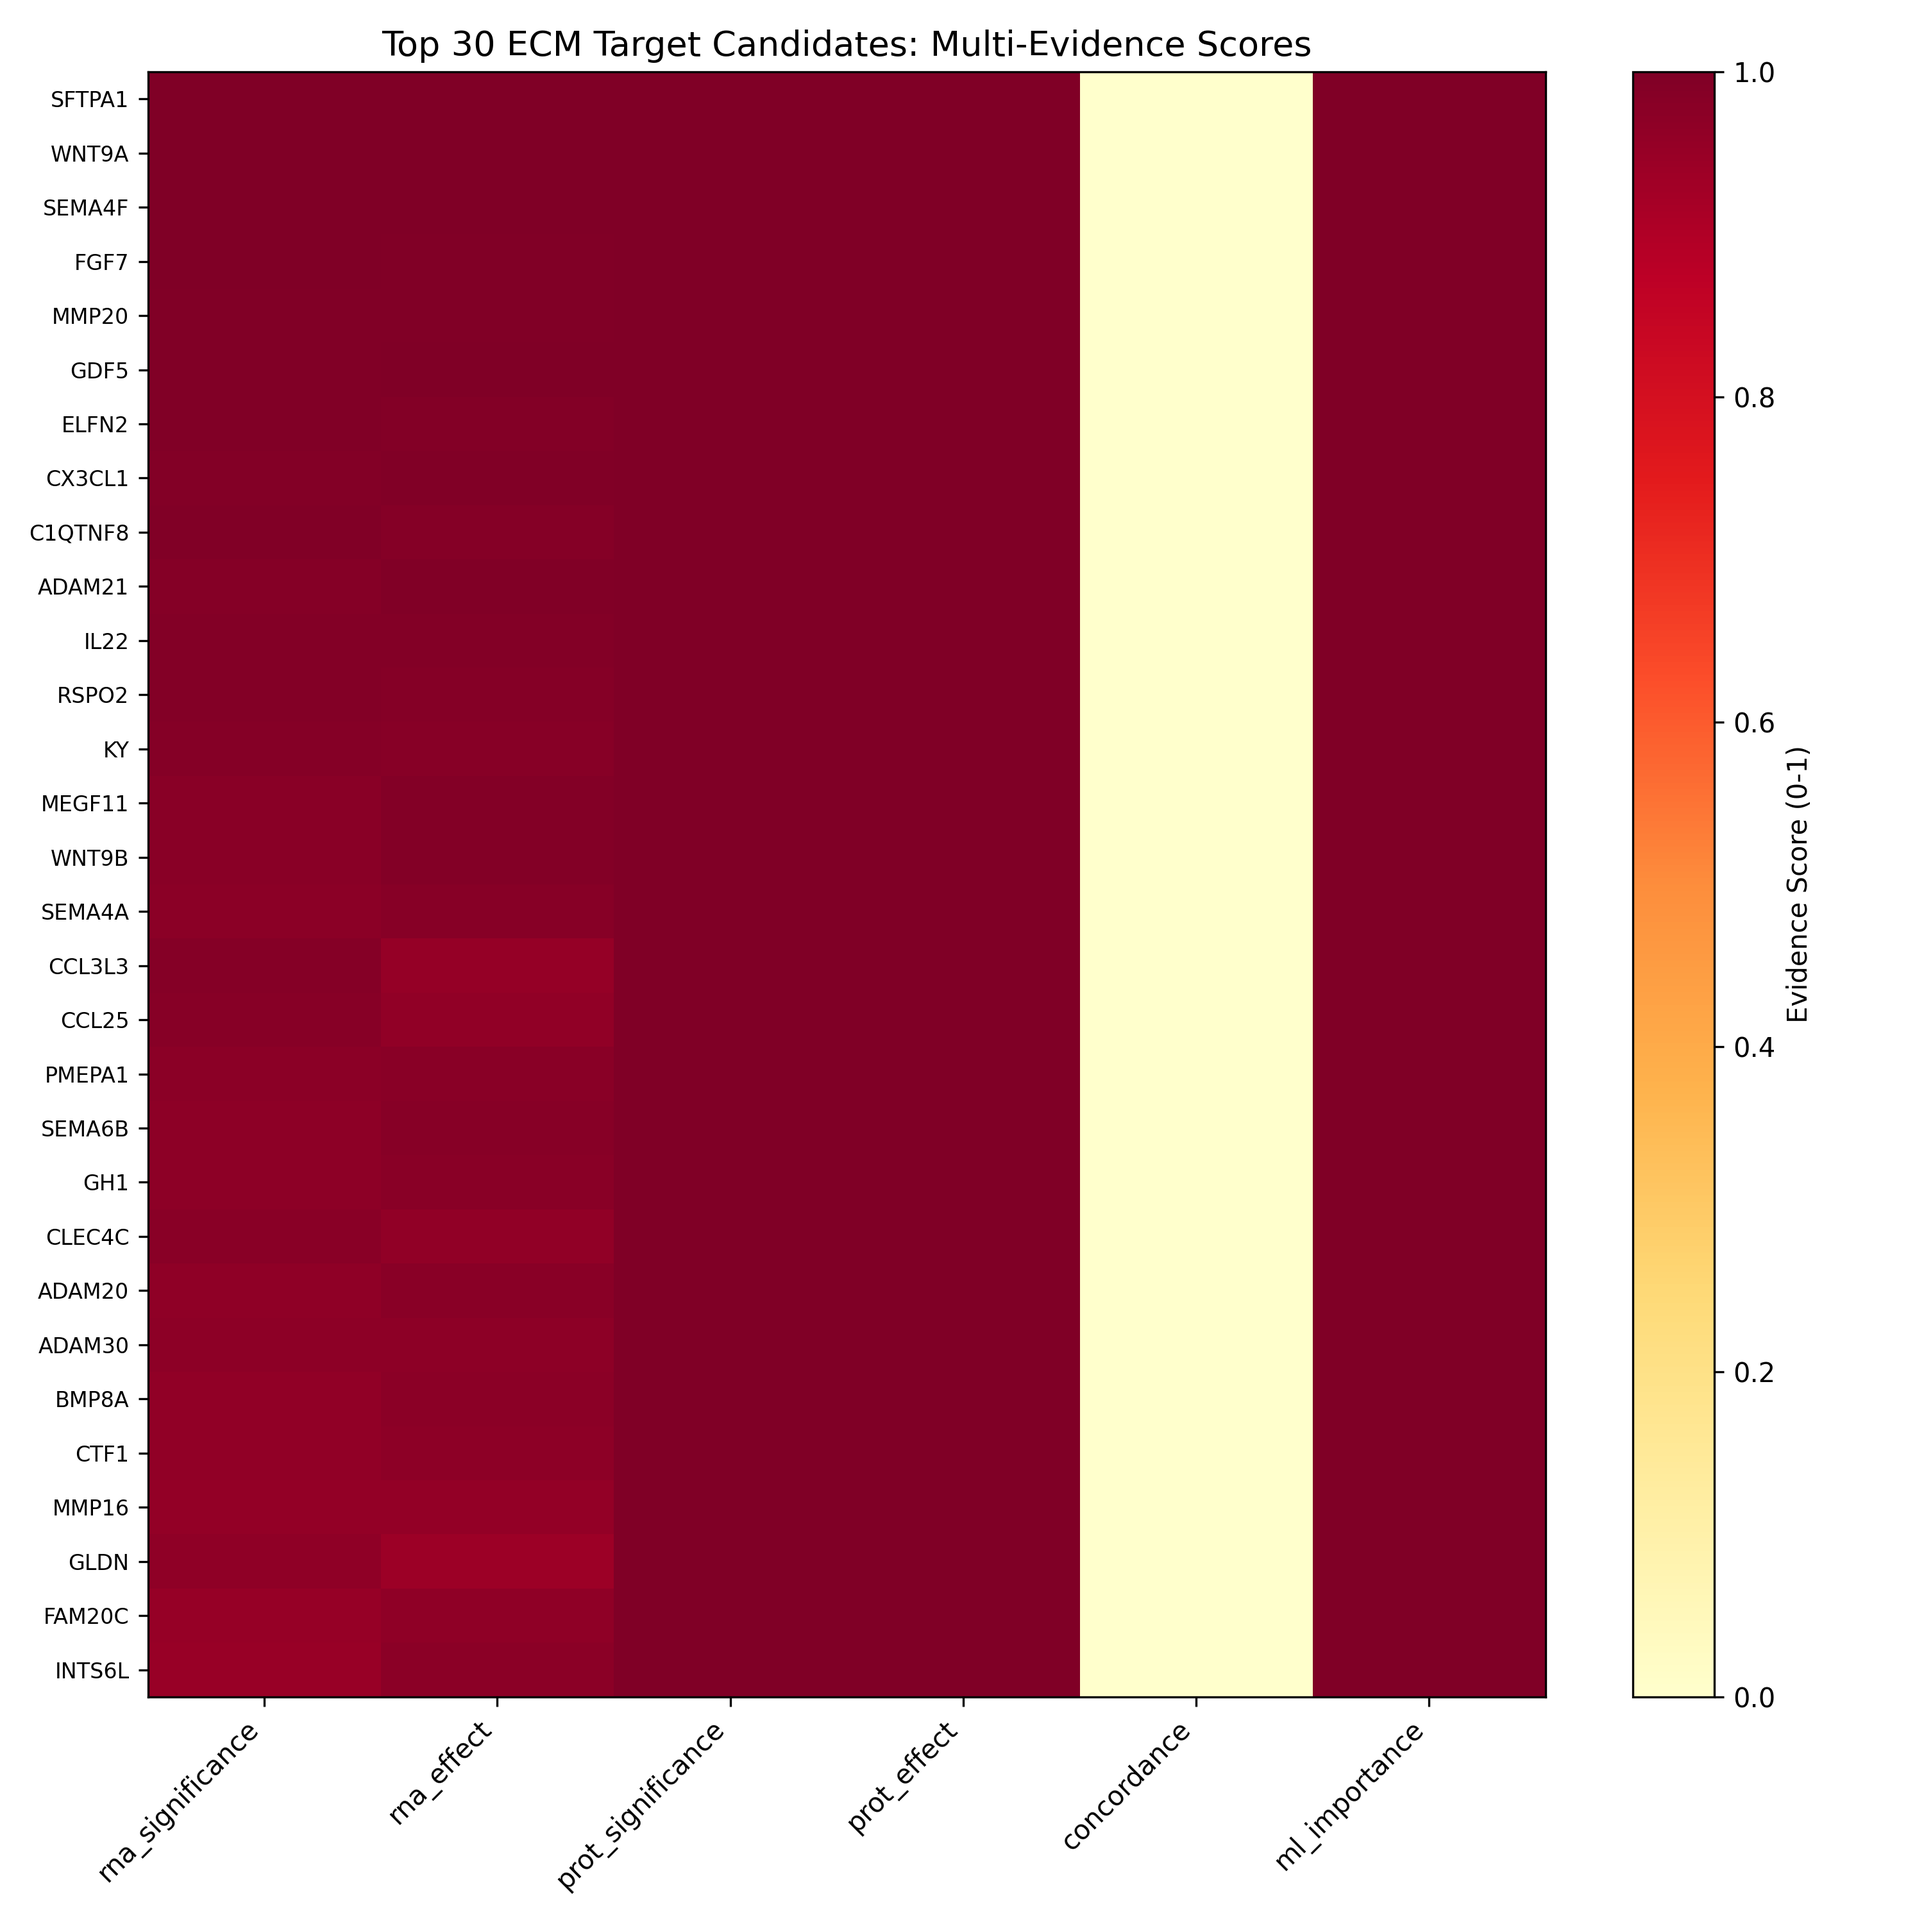
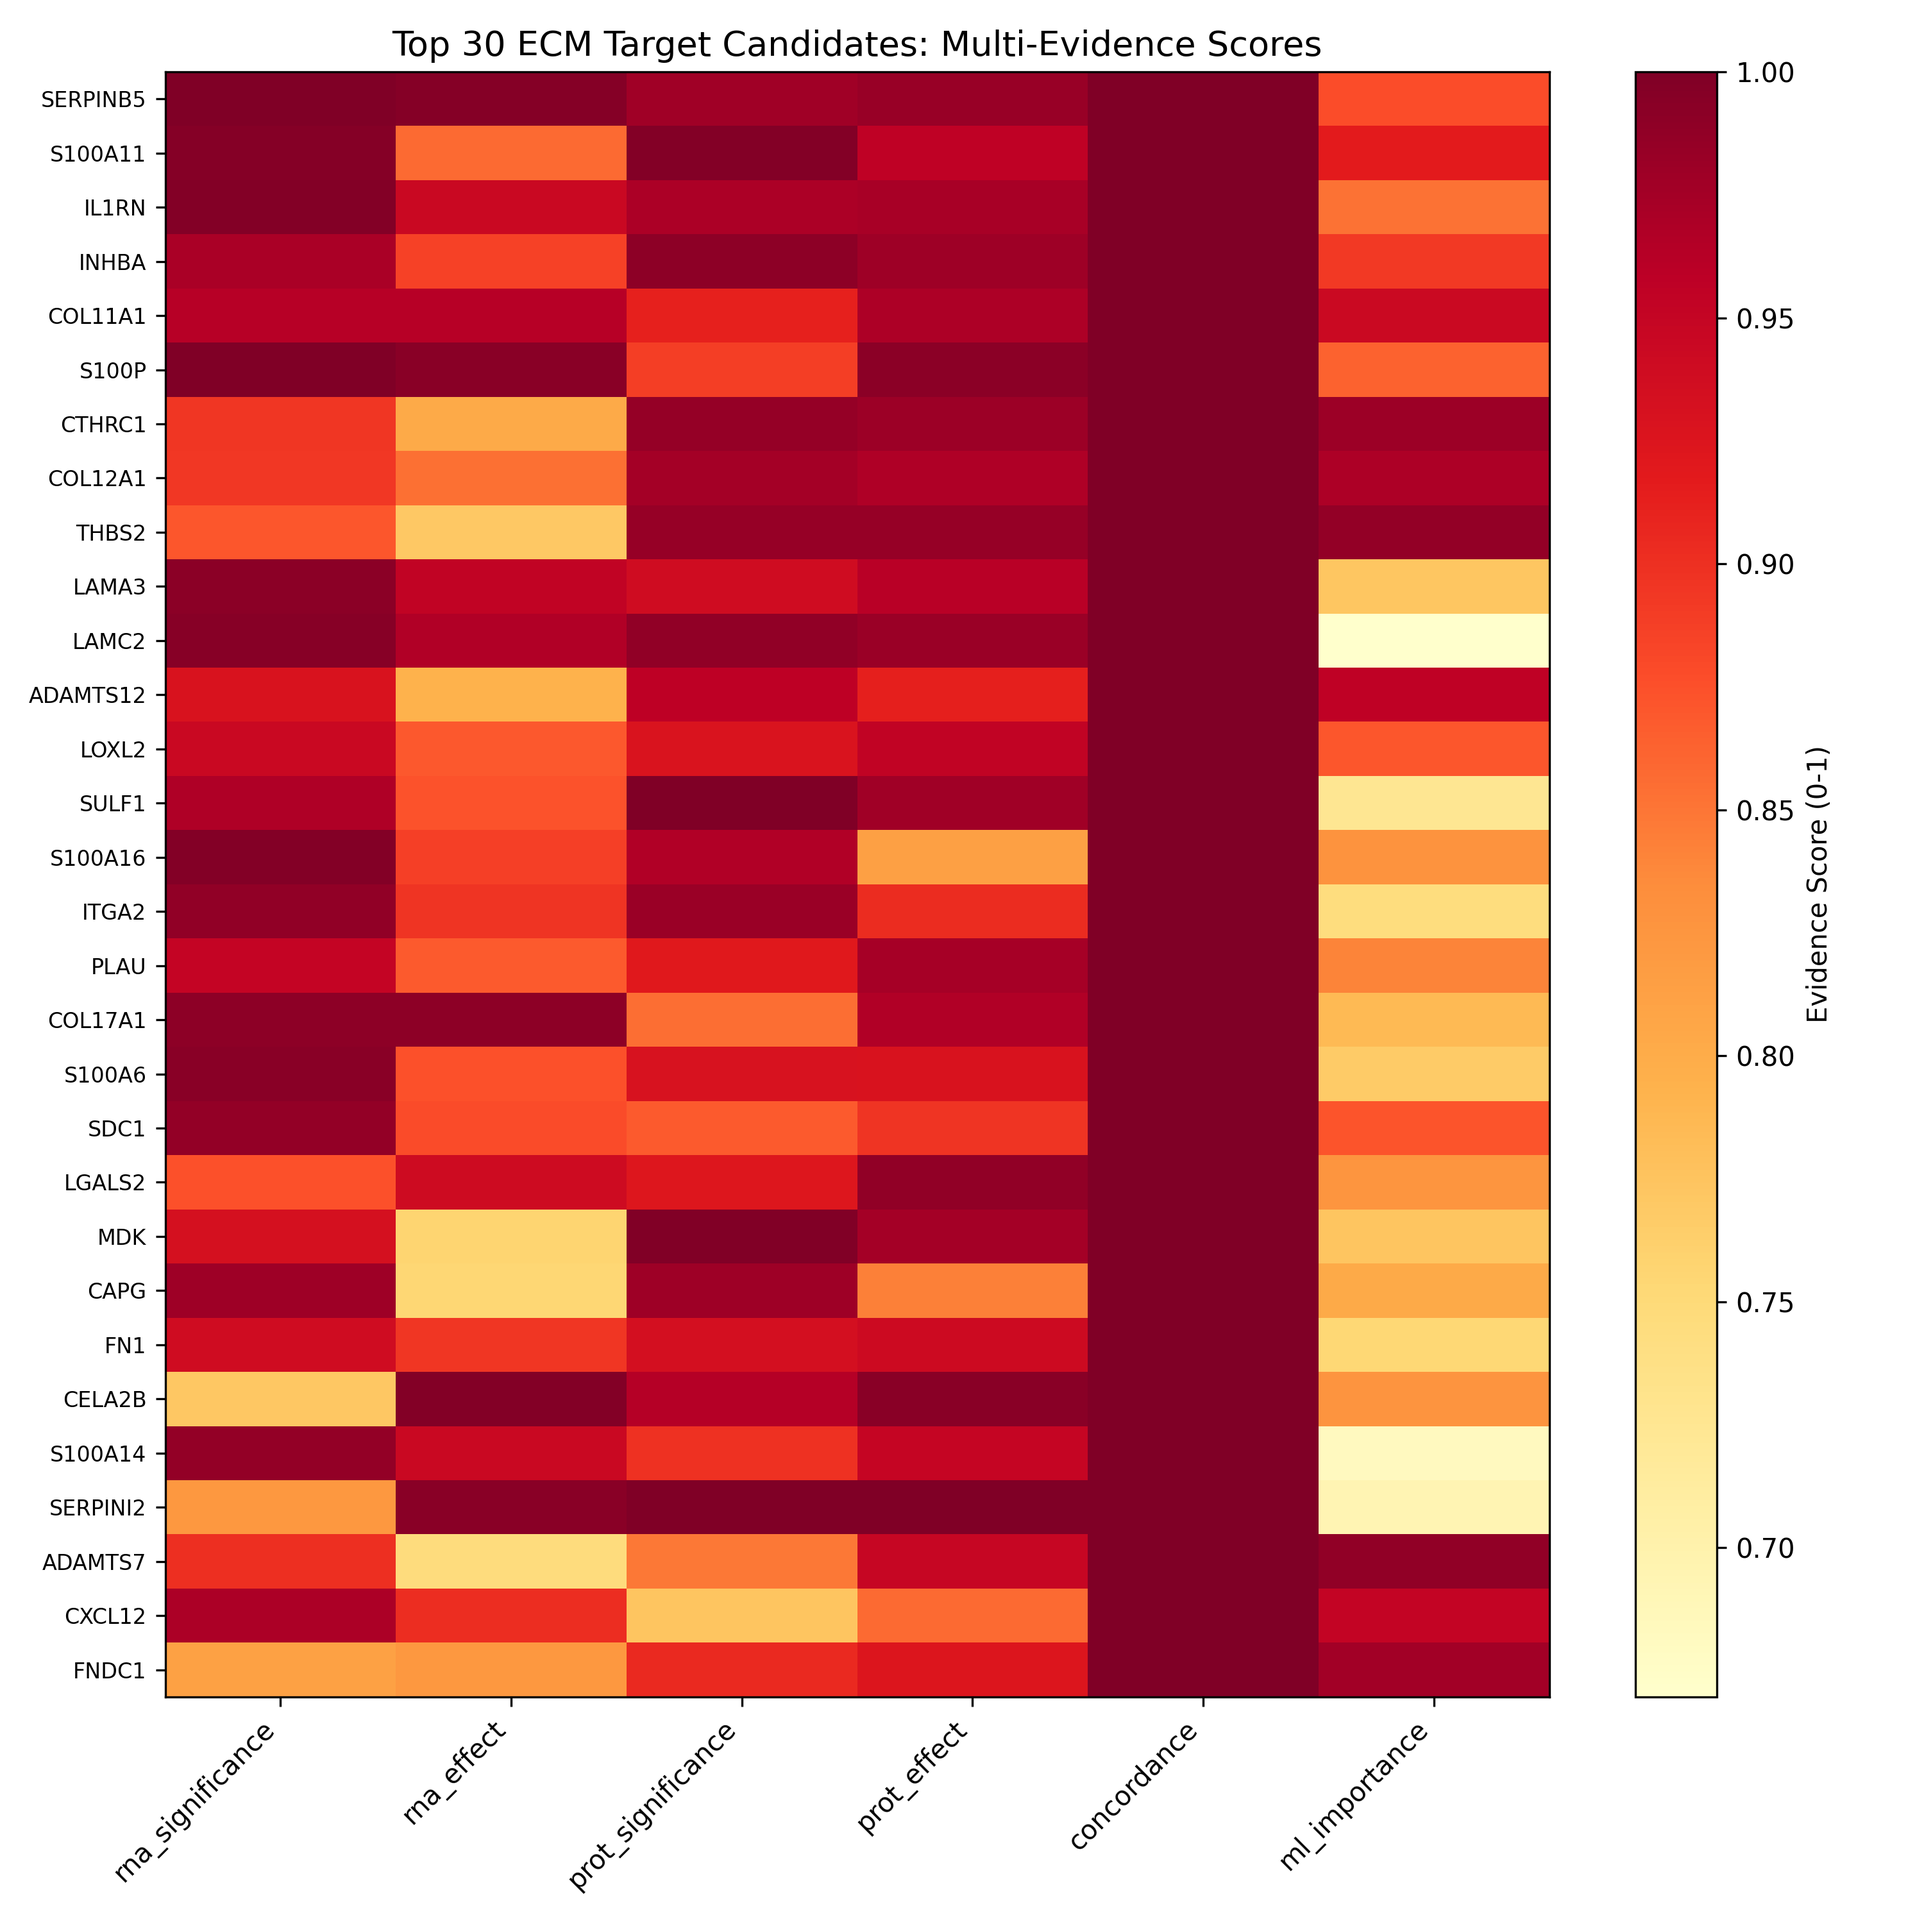
Fix target prioritisation scoring inversion - Tier 1 targets now ranked correctly

diff --git a/src/python/target_prioritisation.py b/src/python/target_prioritisation.py
@@ -28,9 +28,16 @@ PROJECT_ROOT = Path(__file__).resolve().parents[2]
 
 
 def score_column(series: pd.Series, ascending: bool = True) -> pd.Series:
-    """Rank-based score normalised to 0-1 (1 = strongest evidence)."""
+    """Rank-based score normalised to 0-1 (1 = strongest evidence).
+
+    Args:
+        series: Values to score.
+        ascending: If True, lower values score higher (e.g., p-values).
+                   If False, higher values score higher (e.g., |log2FC|).
+    """
     ranked = series.rank(ascending=ascending, method="average", na_option="bottom")
-    return (ranked - ranked.min()) / (ranked.max() - ranked.min())
+    normalised = (ranked - ranked.min()) / (ranked.max() - ranked.min())
+    return 1.0 - normalised
 
 
 def main():
@@ -152,7 +159,8 @@ def main():
     # Evidence tier
     targets["evidence_tier"] = "Tier 3: RNA only"
     targets.loc[
-        targets["rna_significant"] & targets["prot_significant"].fillna(False),
+        targets["rna_significant"]
+        & targets["prot_significant"].fillna(False).infer_objects(copy=False),
         "evidence_tier"
     ] = "Tier 2: RNA + Protein"
     targets.loc[
